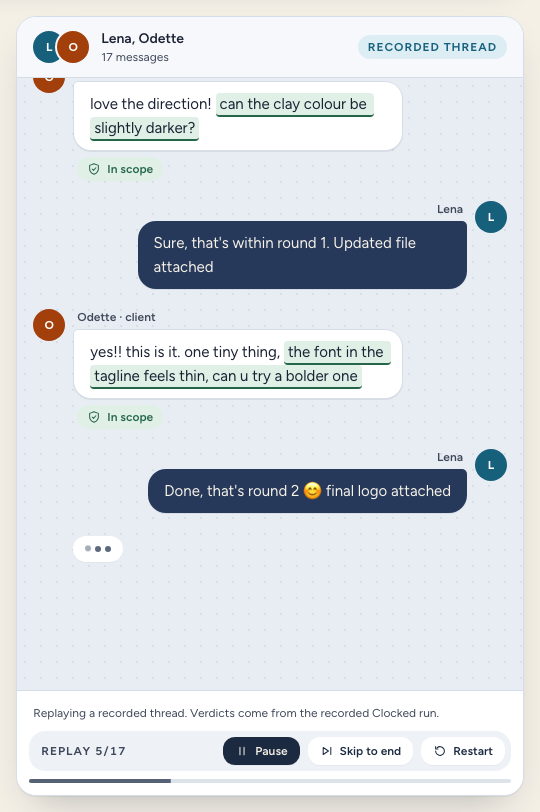
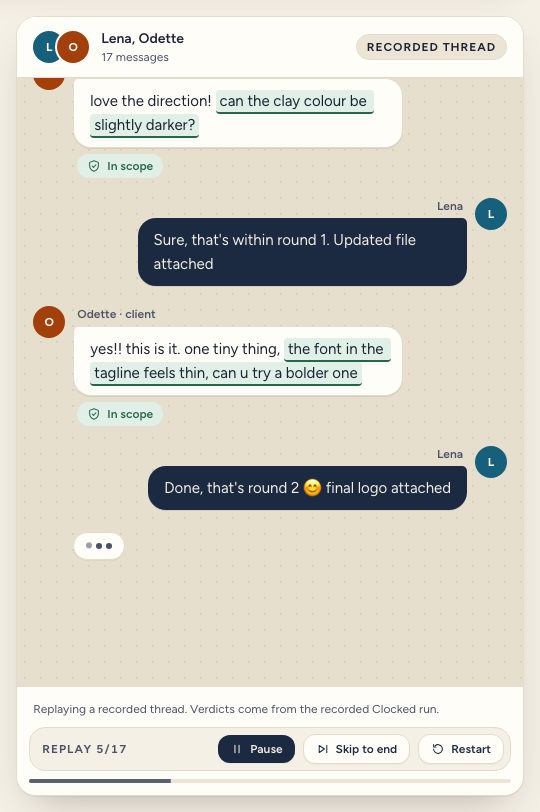
design: palette harmony pass: chat window and app-wide colours, shadows and tints from the token set; themed scrollbar; design notes

diff --git a/src/index.css b/src/index.css
@@ -29,8 +29,13 @@
   --color-warn: #7a4b00;
   --color-warn-bg: #fdf3d9;
 
-  --shadow-card: 0 1px 0 rgb(26 33 51 / 0.04), 0 10px 28px -16px rgb(26 33 51 / 0.22);
-  --shadow-lift: 0 1px 0 rgb(26 33 51 / 0.05), 0 18px 40px -18px rgb(26 33 51 / 0.32);
+  /* Derived neutrals (mixes of the tokens above, no new hues) */
+  --color-sand: color-mix(in srgb, var(--color-line) 72%, var(--color-paper-deep)); /* chat canvas: a touch deeper than the page paper */
+  --color-stone: color-mix(in srgb, var(--color-line) 70%, var(--color-muted)); /* warm grey for neutral strokes */
+  --color-shadow: color-mix(in srgb, var(--color-ink) 70%, var(--color-warn)); /* warm-tinted shadow base */
+
+  --shadow-card: 0 1px 0 color-mix(in srgb, var(--color-shadow) 5%, transparent), 0 10px 28px -16px color-mix(in srgb, var(--color-shadow) 26%, transparent);
+  --shadow-lift: 0 1px 0 color-mix(in srgb, var(--color-shadow) 6%, transparent), 0 18px 40px -18px color-mix(in srgb, var(--color-shadow) 36%, transparent);
   --radius-card: 16px;
 }
 
@@ -42,13 +47,13 @@ body {
   color: var(--color-ink);
   min-height: 100vh;
   background:
-    radial-gradient(900px 420px at 92% -8%, rgb(255 253 248 / 0.9) 0%, transparent 65%),
-    radial-gradient(700px 360px at -10% 8%, rgb(236 229 214 / 0.8) 0%, transparent 60%),
+    radial-gradient(900px 420px at 92% -8%, color-mix(in srgb, var(--color-card) 90%, transparent) 0%, transparent 65%),
+    radial-gradient(700px 360px at -10% 8%, color-mix(in srgb, var(--color-paper-deep) 80%, transparent) 0%, transparent 60%),
     var(--color-paper);
   font-feature-settings: "ss01", "cv11";
   -webkit-font-smoothing: antialiased;
 }
-::selection { background: rgb(27 42 65 / 0.18); }
+::selection { background: color-mix(in srgb, var(--color-navy) 18%, transparent); }
 
 /* Type scale: display 44/48, h2 28/36, h3 20/28, body 16/24, small 14/20, micro 12/16 */
 .font-display { font-family: var(--font-display); font-variation-settings: "opsz" 48, "SOFT" 30; letter-spacing: -0.01em; }
@@ -87,20 +92,33 @@ mark.sweep::after { content: ""; position: absolute; left: 0; right: 0; bottom: 
 .chip-in { transition: opacity .3s ease .25s, transform .15s ease; }
 .is-hidden .chip-in { opacity: 0; }
 
-/* Chat window (the Thread panel): its own cool surface, separate from the warm paper cards. Original and generic by design. */
-.chat-window { background: #f6f8fb; border: 1px solid #d5dde8; border-radius: 20px; box-shadow: var(--shadow-lift); }
-.chat-canvas { background-color: #e8edf3; background-image: radial-gradient(rgb(27 42 65 / .08) 1px, transparent 1.3px); background-size: 16px 16px; }
-.bubble { border-radius: 18px; box-shadow: 0 1px 0 rgb(26 33 51 / .08); }
-.bubble-left { background: #ffffff; color: var(--color-ink); border: 1px solid #d5dde8; }
-.bubble-right { background: #27395a; color: #f7f3ea; }
+/* Chat window (the Thread panel): same palette as the page. Distinct through depth, shape, structure and the sans font, not through a different hue. */
+.chat-window { background: var(--color-card); border: 1px solid var(--color-line); border-radius: 20px; box-shadow: var(--shadow-lift); }
+.chat-canvas { background-color: var(--color-sand); background-image: radial-gradient(color-mix(in srgb, var(--color-shadow) 9%, transparent) 1px, transparent 1.3px); background-size: 16px 16px; }
+.bubble { border-radius: 18px; box-shadow: 0 1px 0 color-mix(in srgb, var(--color-shadow) 10%, transparent); }
+.bubble-left { background: var(--color-card); color: var(--color-ink); border: 1px solid var(--color-line); }
+.bubble-right { background: var(--color-navy); color: var(--color-paper); }
 .tail-left { border-top-left-radius: 5px; }
 .tail-right { border-top-right-radius: 5px; }
 .bubble-pulse { animation: bubble-pulse .8s ease-out 1; }
 @keyframes bubble-pulse { 0% { transform: scale(1); } 35% { transform: scale(1.035); } 100% { transform: scale(1); } }
-.typing i { display: block; width: 6px; height: 6px; border-radius: 9999px; background: #5d6a7e; animation: typing-dot 1s ease-in-out infinite; }
+.typing i { display: block; width: 6px; height: 6px; border-radius: 9999px; background: var(--color-muted); animation: typing-dot 1s ease-in-out infinite; }
 .typing i:nth-child(2) { animation-delay: .15s; }
 .typing i:nth-child(3) { animation-delay: .3s; }
 @keyframes typing-dot { 0%, 60%, 100% { opacity: .35; transform: translateY(0); } 30% { opacity: 1; transform: translateY(-2px); } }
+
+/* Slim, themed scrollbar for the chat body: faint at rest, stronger on hover and focus. Firefox and current Chrome use scrollbar-color; older WebKit falls back to the pseudo-elements. */
+.chat-scroll { scrollbar-width: thin; scrollbar-color: color-mix(in srgb, var(--color-shadow) 26%, transparent) transparent; }
+.chat-scroll:hover, .chat-scroll:focus, .chat-scroll:focus-within { scrollbar-color: color-mix(in srgb, var(--color-shadow) 55%, transparent) transparent; }
+@supports not (scrollbar-color: auto) {
+  .chat-scroll::-webkit-scrollbar { width: 9px; }
+  .chat-scroll::-webkit-scrollbar-track { background: transparent; }
+  .chat-scroll::-webkit-scrollbar-thumb { background: color-mix(in srgb, var(--color-shadow) 26%, transparent); border-radius: 9999px; border: 2px solid transparent; background-clip: padding-box; }
+  .chat-scroll:hover::-webkit-scrollbar-thumb, .chat-scroll:focus::-webkit-scrollbar-thumb, .chat-scroll:focus-within::-webkit-scrollbar-thumb { background: color-mix(in srgb, var(--color-shadow) 55%, transparent); background-clip: padding-box; }
+}
+
+/* Inset field shadow (inputs) */
+.shadow-inset { box-shadow: inset 0 1px 2px color-mix(in srgb, var(--color-shadow) 9%, transparent); }
 
 /* Small physical responses: buttons lift on hover and press in */
 .press { transition: transform .15s ease, opacity .15s ease; }
@@ -143,7 +161,7 @@ button:hover > .undo-icon, button:focus-visible > .undo-icon { transform: rotate
 }
 
 /* Focus: always visible for keyboard users, with an offset ring that works on paper, cards and navy buttons */
-:focus-visible { outline: 2px solid var(--color-navy); outline-offset: 3px; border-radius: 6px; box-shadow: 0 0 0 5px rgb(245 240 230 / 0.9); }
+:focus-visible { outline: 2px solid var(--color-navy); outline-offset: 3px; border-radius: 6px; box-shadow: 0 0 0 5px color-mix(in srgb, var(--color-paper) 90%, transparent); }
 button, a, summary, input, textarea { -webkit-tap-highlight-color: transparent; }
 button:not(:disabled), summary { cursor: pointer; }
 button { touch-action: manipulation; }

diff --git a/src/components/ChangeOrderPanel.tsx b/src/components/ChangeOrderPanel.tsx
@@ -4,7 +4,7 @@ import { countVerdicts, verifyCopyState, type VerifiedClaim } from "../lib/verif
 import { CopyButton } from "./CopyButton";
 
 const Chip = () => (
-  <span className="t-eyebrow inline-flex items-center gap-1 rounded-full border border-ask/30 bg-ask-bg px-2.5 py-0.5 text-ask"><span aria-hidden>✦</span>AI-generated draft</span>
+  <span className="t-eyebrow inline-flex items-center gap-1 rounded-full border border-line bg-paper-deep px-2.5 py-0.5 text-ink"><span aria-hidden>✦</span>AI-generated draft</span>
 );
 
 interface Props {
@@ -45,8 +45,8 @@ export function ChangeOrderPanel({ item, open, setOpen, onPrepare, onRegenerate,
   const reason = invented ? "Blocked: the draft contains an amount that is not in the thread." : vs.blockedReason ?? (vs.needsAck ? "Click “I’ve read this” on the not-found note first." : undefined);
   const warn = (amounts: string[]) =>
     amounts.length > 0 && (
-      <div role="alert" className="mt-2.5 flex gap-2.5 rounded-xl border border-change/40 bg-change-bg px-3.5 py-3 text-xs leading-5 text-ink">
-        <span aria-hidden className="mt-0.5 flex h-5 w-5 shrink-0 items-center justify-center rounded-full bg-change text-xs font-bold text-white">✕</span><span><b className="text-change">Copy blocked.</b> This draft mentions {amounts.join(", ")}, which does not appear in the contract or thread, so it may be an invented price.{" "}
+      <div role="alert" className="mt-2.5 flex gap-2.5 rounded-xl border border-change/30 bg-change-bg px-3.5 py-3 text-xs leading-5 text-ink">
+        <span aria-hidden className="mt-0.5 flex h-5 w-5 shrink-0 items-center justify-center rounded-full bg-change text-xs font-bold text-card">✕</span><span><b className="text-change">Copy blocked.</b> This draft mentions {amounts.join(", ")}, which does not appear in the contract or thread, so it may be an invented price.{" "}
         {st.regenerated ? "The one Regenerate attempt is used. Write this part yourself." : (
           <button onClick={onRegenerate} className="ml-1 rounded-md bg-navy px-2.5 py-1 font-semibold text-paper">Regenerate once</button>
         )}</span>
@@ -86,7 +86,7 @@ export function ChangeOrderPanel({ item, open, setOpen, onPrepare, onRegenerate,
 
       <div>
         <div className="mb-2 flex flex-wrap items-center gap-2"><span className="t-eyebrow text-muted">Message to client</span><Chip /></div>
-        <p className="whitespace-pre-wrap rounded-xl border border-ask/25 bg-card px-4 py-3 text-[0.9375rem] leading-6">{co.message ?? "No message was generated."}</p>
+        <p className="whitespace-pre-wrap rounded-xl border border-line bg-card px-4 py-3 text-[0.9375rem] leading-6">{co.message ?? "No message was generated."}</p>
         {warn(co.inventedMessage)}
         <VerifyBlock item={item} onShowEvidence={onShowEvidence} onAck={onAck} onRetry={onRetryVerify} />
         {co.message && <div className="mt-3"><CopyButton text={co.message} label="Copy message" blockedReason={messageReason} /></div>}
@@ -94,7 +94,7 @@ export function ChangeOrderPanel({ item, open, setOpen, onPrepare, onRegenerate,
 
       <div>
         <div className="mb-2 flex flex-wrap items-center gap-2"><span className="t-eyebrow text-muted">Next step for you</span><Chip /></div>
-        <p className="rounded-xl border border-ask/25 bg-card px-4 py-3 text-[0.9375rem] leading-6">{co.nextStep ?? "No next step was generated."}</p>
+        <p className="rounded-xl border border-line bg-card px-4 py-3 text-[0.9375rem] leading-6">{co.nextStep ?? "No next step was generated."}</p>
         {warn(co.inventedNextStep)}
       </div>
 
@@ -144,8 +144,8 @@ function VerifyBlock({ item, onShowEvidence, onAck, onRetry }: { item: RequestIt
         <span className="text-muted">{n.supported} supported{n.notStated ? `, ${n.notStated} not found` : ""}{n.contradicted ? `, ${n.contradicted} contradicted` : ""}</span>
       </p>
       {claims.filter((c) => c.verdict === "contradicted").map((c) => (
-        <div key={idx(c)} role="alert" className="flex gap-2.5 rounded-xl border border-change/40 bg-change-bg px-3.5 py-3 text-xs leading-5 text-ink">
-          <span aria-hidden className="mt-0.5 flex h-5 w-5 shrink-0 items-center justify-center rounded-full bg-change text-xs font-bold text-white">✕</span>
+        <div key={idx(c)} role="alert" className="flex gap-2.5 rounded-xl border border-change/30 bg-change-bg px-3.5 py-3 text-xs leading-5 text-ink">
+          <span aria-hidden className="mt-0.5 flex h-5 w-5 shrink-0 items-center justify-center rounded-full bg-change text-xs font-bold text-card">✕</span>
           <div>
             <p><b className="text-change">Contradicted. Copy is blocked.</b> “{c.text}”</p>
             <ClaimEvidence claim={c} spanId={`${item.id}:v${idx(c)}`} onShow={onShowEvidence} />
@@ -154,8 +154,8 @@ function VerifyBlock({ item, onShowEvidence, onAck, onRetry }: { item: RequestIt
         </div>
       ))}
       {claims.filter((c) => c.verdict === "not_stated").map((c) => (
-        <div key={idx(c)} className="flex gap-2.5 rounded-xl border border-warn/40 bg-warn-bg px-3.5 py-3 text-xs leading-5 text-ink">
-          <span aria-hidden className="mt-0.5 flex h-5 w-5 shrink-0 items-center justify-center rounded-full bg-warn text-xs font-bold text-white">!</span>
+        <div key={idx(c)} className="flex gap-2.5 rounded-xl border border-warn/30 bg-warn-bg px-3.5 py-3 text-xs leading-5 text-ink">
+          <span aria-hidden className="mt-0.5 flex h-5 w-5 shrink-0 items-center justify-center rounded-full bg-warn text-xs font-bold text-card">!</span>
           <div>
             <p><b className="text-warn">Not found in the thread.</b> “{c.text}”</p>
             <ClaimEvidence claim={c} spanId={`${item.id}:v${idx(c)}`} onShow={onShowEvidence} />

diff --git a/src/components/ChatWindow.tsx b/src/components/ChatWindow.tsx
@@ -55,39 +55,39 @@ export const ChatWindow = forwardRef<ChatHandle, Props>(function ChatWindow({ an
 
   return (
     <section id="chat-window" aria-label="Chat window: the thread" className="chat-window scroll-mt-20 flex h-[calc(100dvh-9.5rem)] min-h-[28rem] flex-col overflow-hidden lg:h-[calc(100vh-7rem)] lg:max-h-[780px]">
-      <header className="flex items-center gap-3 border-b border-[#d5dde8] bg-[#f6f8fb] px-4 py-3">
+      <header className="flex items-center gap-3 border-b border-line bg-card px-4 py-3">
         <div className="flex -space-x-2" aria-hidden="true">
           {people.slice(0, 4).map((p) => (
-            <span key={p.name} className="flex h-8 w-8 items-center justify-center rounded-full text-xs font-bold text-white ring-2 ring-[#f6f8fb]" style={{ background: avatarColor(people, p.name) }}>{initials(p.name)}</span>
+            <span key={p.name} className="flex h-8 w-8 items-center justify-center rounded-full text-xs font-bold text-card ring-2 ring-card" style={{ background: avatarColor(people, p.name) }}>{initials(p.name)}</span>
           ))}
         </div>
         <div className="min-w-0">
           <h3 className="truncate text-sm font-semibold text-ink">{names || "Thread"}</h3>
-          <p className="text-xs text-[#3f4859]">{analysis.messages.length} messages</p>
+          <p className="text-xs text-muted">{analysis.messages.length} messages</p>
         </div>
-        <span className={`t-eyebrow ml-auto shrink-0 rounded-full px-2.5 py-1 ${recorded ? "bg-agreed-bg text-agreed" : "bg-paper-deep text-ink"}`}>{recorded ? "Recorded thread" : "Your thread"}</span>
+        <span className={`t-eyebrow ml-auto shrink-0 rounded-full px-2.5 py-1 border border-line bg-paper-deep text-ink`}>{recorded ? "Recorded thread" : "Your thread"}</span>
       </header>
 
       <div ref={body} role="log" aria-label="Chat thread" aria-live="polite" aria-relevant="additions" tabIndex={0}
         onWheel={() => (userScrolled.current = true)} onTouchMove={() => (userScrolled.current = true)}
         onKeyDown={(e) => { if (["ArrowUp", "ArrowDown", "PageUp", "PageDown", "Home", "End"].includes(e.key)) userScrolled.current = true; }}
-        className="chat-canvas relative min-h-0 flex-1 overflow-y-auto overscroll-contain">
+        className="chat-canvas chat-scroll relative min-h-0 flex-1 overflow-y-auto overscroll-contain">
         <ThreadView analysis={analysis} openIds={openIds} activeId={activeId} onPick={onPick} onRetryMessage={onRetryMessage}
           revealed={recorded ? replay.revealed : undefined} typingIndex={recorded ? replay.typing : null} />
       </div>
 
       {recorded && (
-        <footer className="border-t border-[#d5dde8] bg-white px-3 py-3">
-          <p className="mb-2 px-1 text-xs leading-5 text-[#3f4859]">Replaying a recorded thread. Verdicts come from the recorded Clocked run.</p>
-          <div role="group" aria-label="Replay controls" className="flex flex-wrap items-center gap-2 rounded-2xl bg-[#eef2f7] p-1.5 pl-3">
-            <span className="t-eyebrow tnum mr-auto text-[#3f4859]">Replay {replay.revealed}/{replay.total}</span>
+        <footer className="border-t border-line bg-card px-3 py-3">
+          <p className="mb-2 px-1 text-xs leading-5 text-muted">Replaying a recorded thread. Verdicts come from the recorded Clocked run.</p>
+          <div role="group" aria-label="Replay controls" className="flex flex-wrap items-center gap-2 rounded-2xl border border-line bg-paper p-1.5 pl-3">
+            <span className="t-eyebrow tnum mr-auto text-muted">Replay {replay.revealed}/{replay.total}</span>
             <button onClick={() => { userScrolled.current = false; (replay.playing ? replay.pause : replay.play)(); }} className={`${ctl} bg-navy text-paper hover:bg-navy/90`}>
               {replay.playing ? <PauseIcon width={14} height={14} /> : <PlayIcon width={14} height={14} />}{replay.playing ? "Pause" : replay.revealed >= replay.total ? "Replay" : "Play"}
             </button>
-            <button onClick={replay.finish} disabled={replay.revealed >= replay.total} className={`${ctl} bg-white text-navy hover:bg-paper disabled:opacity-50`}><SkipEndIcon width={14} height={14} />Skip to end</button>
-            <button onClick={() => { userScrolled.current = false; replay.restart(); }} className={`${ctl} bg-white text-navy hover:bg-paper`}><RestartIcon width={14} height={14} />Restart</button>
+            <button onClick={replay.finish} disabled={replay.revealed >= replay.total} className={`${ctl} border border-line bg-card text-navy hover:bg-paper-deep disabled:opacity-50`}><SkipEndIcon width={14} height={14} />Skip to end</button>
+            <button onClick={() => { userScrolled.current = false; replay.restart(); }} className={`${ctl} border border-line bg-card text-navy hover:bg-paper-deep`}><RestartIcon width={14} height={14} />Restart</button>
           </div>
-          <div className="mt-2 h-1 overflow-hidden rounded-full bg-[#dde3ea]" aria-hidden="true">
+          <div className="mt-2 h-1 overflow-hidden rounded-full bg-paper-deep" aria-hidden="true">
             <div className="h-full origin-left bg-navy/70 transition-transform duration-300" style={{ transform: `scaleX(${pct})` }} />
           </div>
           <p className="sr-only" aria-live="polite" aria-atomic="true" data-testid="replay-live">{replay.live}</p>

diff --git a/src/components/ThreadView.tsx b/src/components/ThreadView.tsx
@@ -55,16 +55,16 @@ export function ThreadView({ analysis, openIds, activeId, onPick, onRetryMessage
             {typing && (
               <div aria-hidden="true" className={`typing absolute top-0 ${right ? "right-0 flex-row-reverse" : "left-0"} flex items-center gap-2`}>
                 <span className="h-8 w-8 shrink-0" />
-                <span className="flex items-center gap-1 rounded-2xl bg-white px-3 py-2.5 shadow-card"><i /><i /><i /></span>
+                <span className="flex items-center gap-1 rounded-2xl border border-line bg-card px-3 py-2.5 shadow-card"><i /><i /><i /></span>
               </div>
             )}
             <div aria-hidden={hidden ? true : undefined} inert={hidden ? true : undefined}
               className={`replay-item flex max-w-[84%] items-end gap-2 sm:max-w-[78%] ${right ? "flex-row-reverse" : ""} ${hidden ? "is-hidden" : ""}`}>
               {pl.firstInGroup ? (
-                <span aria-hidden="true" title={m.speaker} className="mb-auto flex h-8 w-8 shrink-0 items-center justify-center rounded-full text-xs font-bold text-white" style={{ background: color }}>{initials(m.speaker)}</span>
+                <span aria-hidden="true" title={m.speaker} className="mb-auto flex h-8 w-8 shrink-0 items-center justify-center rounded-full text-xs font-bold text-card" style={{ background: color }}>{initials(m.speaker)}</span>
               ) : <span className="h-8 w-8 shrink-0" />}
               <div className={`min-w-0 ${right ? "items-end text-right" : "items-start"} flex flex-col`}>
-                {pl.firstInGroup && <span className="mb-1 px-1 text-xs font-semibold text-[#3f4859]">{m.speaker}{m.isClient ? " · client" : ""}</span>}
+                {pl.firstInGroup && <span className="mb-1 px-1 text-xs font-semibold text-muted">{m.speaker}{m.isClient ? " · client" : ""}</span>}
                 <p data-bubble className={`bubble whitespace-pre-wrap break-words px-4 py-2.5 text-left font-sans text-[0.9375rem] leading-6 ${right ? "bubble-right" : "bubble-left"} ${pl.firstInGroup ? (right ? "tail-right" : "tail-left") : ""} ${pulse ? "bubble-pulse" : ""}`}>
                   {segs.map((seg, k) => {
                     if (!seg.id) return <span key={k}>{seg.text}</span>;
@@ -95,8 +95,8 @@ export function ThreadView({ analysis, openIds, activeId, onPick, onRetryMessage
                         </button>
                       );
                     })}
-                    {st?.status === "done" && st.requestCount === 0 && <span className="rounded-full bg-[#dde3ea] px-2.5 py-1 text-xs font-medium text-[#3f4859]">No actionable request</span>}
-                    {st?.status === "running" && <span className="flex items-center gap-1.5 rounded-full bg-[#dde3ea] px-2.5 py-1 text-xs text-[#3f4859]" role="status"><span className="spinner" /> Reading</span>}
+                    {st?.status === "done" && st.requestCount === 0 && <span className="rounded-full border border-line bg-paper px-2.5 py-1 text-xs font-medium text-muted">No actionable request</span>}
+                    {st?.status === "running" && <span className="flex items-center gap-1.5 rounded-full border border-line bg-paper px-2.5 py-1 text-xs text-muted" role="status"><span className="spinner" /> Reading</span>}
                     {st?.status === "failed" && (
                       <span className="flex items-center gap-2 rounded-full bg-change-bg px-2.5 py-1 text-xs text-change" role="alert">
                         <span title={describeError(st.errorKind, st.error).hint}>{describeError(st.errorKind, st.error).title}</span>

diff --git a/scripts/og.html b/scripts/og.html
@@ -6,10 +6,10 @@ body{background:#f5f0e6;font-family:"Figtree Variable",sans-serif;color:#1a2133;
  background-image:radial-gradient(700px 360px at 95% -10%,#fffdf8 0%,transparent 65%),radial-gradient(600px 300px at -5% 10%,#ece5d6 0%,transparent 60%)}
 .brand{position:absolute;left:84px;top:64px;display:flex;align-items:center;gap:18px;font-family:"Fraunces Variable",serif;font-size:34px;font-variation-settings:"opsz" 48}
 h1{position:absolute;left:84px;top:170px;width:900px;margin:0;font-family:"Fraunces Variable",serif;font-weight:560;font-size:92px;line-height:1.04;letter-spacing:-2.5px;font-variation-settings:"opsz" 96}
-p.t{position:absolute;left:86px;top:400px;width:860px;margin:0;font-size:31px;line-height:1.38;color:#3a4256}
+p.t{position:absolute;left:86px;top:400px;width:860px;margin:0;font-size:31px;line-height:1.38;color:#4a5266}
 .chips{position:absolute;left:84px;bottom:52px;display:flex;gap:14px;font-size:22px;font-weight:650}
 .c{padding:10px 20px;border-radius:12px;border-left:5px solid}
-.p{position:absolute;right:84px;top:78px;font-size:15px;letter-spacing:.12em;text-transform:uppercase;font-weight:650;color:#586073}
+.p{position:absolute;right:84px;top:78px;font-size:15px;letter-spacing:.12em;text-transform:uppercase;font-weight:650;color:#4a5266}
 </style>
 <div class="brand"><svg width="44" height="47" viewBox="0 0 26 28"><path d="M13 1.5 2.5 5v8.2c0 6.2 4.3 10.9 10.5 13.3 6.2-2.4 10.5-7.1 10.5-13.3V5L13 1.5Z" fill="#1b2a41"/><path d="m8.2 13.8 3.6 3.6 6.2-7" fill="none" stroke="#f5f0e6" stroke-width="2.2" stroke-linecap="round" stroke-linejoin="round"/></svg>ScopeShield</div>
 <h1>Catch scope creep before it becomes unpaid work.</h1>

diff --git a/src/App.tsx b/src/App.tsx
@@ -15,8 +15,8 @@ interface DemoIndexEntry { id: string; title: string; blurb: string; recordedAt:
 
 const Shield = () => (
   <svg width="30" height="32" viewBox="0 0 26 28" aria-hidden>
-    <path d="M13 1.5 2.5 5v8.2c0 6.2 4.3 10.9 10.5 13.3 6.2-2.4 10.5-7.1 10.5-13.3V5L13 1.5Z" fill="#1b2a41" />
-    <path d="m8.2 13.8 3.6 3.6 6.2-7" fill="none" stroke="#f4efe4" strokeWidth="2.2" strokeLinecap="round" strokeLinejoin="round" />
+    <path d="M13 1.5 2.5 5v8.2c0 6.2 4.3 10.9 10.5 13.3 6.2-2.4 10.5-7.1 10.5-13.3V5L13 1.5Z" style={{ fill: "var(--color-navy)" }} />
+    <path d="m8.2 13.8 3.6 3.6 6.2-7" fill="none" style={{ stroke: "var(--color-paper)" }} strokeWidth="2.2" strokeLinecap="round" strokeLinejoin="round" />
   </svg>
 );
 
@@ -176,8 +176,8 @@ export default function App() {
               ))}
             </div>
             <p className="min-h-6 max-w-2xl text-[0.9375rem] text-ink/80">{demoIndex?.find((d) => d.id === demoId)?.blurb}</p>
-            <div className="flex gap-3 rounded-xl border border-agreed/25 bg-agreed-bg/70 px-4 py-3 text-sm text-ink">
-              <span aria-hidden className="mt-0.5 text-agreed">●</span>
+            <div className="flex gap-3 rounded-xl border border-line bg-paper-deep px-4 py-3 text-sm text-ink">
+              <span aria-hidden className="mt-0.5 text-navy">●</span>
               <p>
                 {/* The text has the same length before and after the data loads (invisible placeholders), so nothing shifts. */}
                 <b>Recorded from a live Clocked run on <span className={snap ? "" : "invisible"}>{snap?.recordedAt ?? "2026-11-07"}</span>.</b>{" "}

diff --git a/src/components/RequestCard.tsx b/src/components/RequestCard.tsx
@@ -78,7 +78,7 @@ export const RequestCard = forwardRef<HTMLElement, Props>(function RequestCard({
 
       {/* ASK ME: one concrete question, three answers */}
       {item.route?.queue === "ask_me" && item.route.ask && (
-        <div className="mt-5 rounded-2xl border border-ask/25 bg-ask-bg/60 p-4 sm:p-5">
+        <div className="mt-5 rounded-2xl border border-ask/25 bg-ask-bg p-4 sm:p-5">
           {needsAnswer ? (
             <>
               <p className="t-eyebrow text-ask">One question for you</p>
@@ -108,7 +108,7 @@ export const RequestCard = forwardRef<HTMLElement, Props>(function RequestCard({
 
       {/* AGREED EXTRA / WITHDRAWN: the sentence that supports the verdict */}
       {item.support && (
-        <div className={`mt-5 rounded-xl border-l-4 px-4 py-3 text-sm ${item.support.kind === "agreement" ? "border-agreed bg-agreed-bg/70" : "border-withdrawn bg-withdrawn-bg/80"}`}>
+        <div className={`mt-5 rounded-xl border-l-4 px-4 py-3 text-sm ${item.support.kind === "agreement" ? "border-agreed bg-agreed-bg" : "border-withdrawn bg-withdrawn-bg"}`}>
           <p className="t-eyebrow text-muted">{item.support.kind === "agreement" ? "Agreement found" : "Withdrawal found"}</p>
           {item.support.status === "running" && <p role="status" className="mt-1 flex items-center gap-2 text-muted"><span className="spinner" /> Locating the sentence…</p>}
           {item.support.status === "failed" && (

diff --git a/src/components/InputPanel.tsx b/src/components/InputPanel.tsx
@@ -6,7 +6,7 @@ import { SAMPLES } from "../lib/samples";
 export interface Inputs { contract: string; thread: string; clientName: string }
 interface Props { value: Inputs; onChange: (v: Inputs) => void; onAnalyze: () => void; busy: boolean }
 
-const field = "w-full rounded-xl border border-line bg-card px-4 py-3 text-[0.9375rem] leading-6 shadow-[inset_0_1px_2px_rgb(26_33_51/0.05)] placeholder:text-muted/80 focus:border-navy";
+const field = "w-full rounded-xl border border-line bg-card px-4 py-3 text-[0.9375rem] leading-6 shadow-inset placeholder:text-muted/80 focus:border-navy";
 
 export function InputPanel({ value, onChange, onAnalyze, busy }: Props) {
   const check = useMemo(() => checkInputs(value.contract, value.thread, value.clientName), [value]);
@@ -70,7 +70,7 @@ export function InputPanel({ value, onChange, onAnalyze, busy }: Props) {
           {check.problems.map((p) => <li key={p}>{p}</li>)}
         </ul>
       )}
-      <p className="rounded-lg bg-paper-deep/60 px-4 py-3 text-xs leading-5 text-muted">
+      <p className="rounded-lg bg-paper-deep px-4 py-3 text-xs leading-5 text-muted">
         Live analysis spends Clocked credits (about 3–4 per client message plus about 2 per request found). Your text is sent to the Clocked API through this app’s server and is not stored by the app.
       </p>
     </form>

diff --git a/src/components/HeroFlow.tsx b/src/components/HeroFlow.tsx
@@ -34,7 +34,7 @@ export function HeroFlow() {
       ))}
 
       {/* the thread the messages come from (stays put, faint) */}
-      {WIDTHS.map((w, n) => <rect key={n} x={START_X} y={ROW(n) - 6} width={w} height={12} rx={6} fill="#e4dccb" />)}
+      {WIDTHS.map((w, n) => <rect key={n} x={START_X} y={ROW(n) - 6} width={w} height={12} rx={6} fill="var(--color-line)" />)}
 
       {/* messages: neutral line that turns into its queue's colour after the shield */}
       {TARGET.map((q, n) => {
@@ -48,7 +48,7 @@ export function HeroFlow() {
         } as CSSProperties;
         return (
           <g key={n} className="flow-item" style={style}>
-            <rect className="flow-neutral" x={START_X} y={ROW(n) - 6} width={w} height={12} rx={6} fill="#cfc6af" />
+            <rect className="flow-neutral" x={START_X} y={ROW(n) - 6} width={w} height={12} rx={6} fill="var(--color-stone)" />
             <rect className="flow-tint" x={START_X} y={ROW(n) - 6} width={w} height={12} rx={6} fill={COLORS[q].fg} />
           </g>
         );

diff --git a/src/components/ErrorBanner.tsx b/src/components/ErrorBanner.tsx
@@ -4,7 +4,7 @@ import type { Described } from "../lib/errors";
 export function ErrorBanner({ described, failures, onSwitchDemo }: { described: Described; failures: number; onSwitchDemo?: () => void }) {
   return (
     <div role="alert" className="mt-6 flex gap-3 rounded-xl border border-change/30 bg-change-bg px-4 py-3.5 text-sm text-ink">
-      <span aria-hidden className="mt-0.5 flex h-5 w-5 shrink-0 items-center justify-center rounded-full bg-change text-xs font-bold text-white">!</span>
+      <span aria-hidden className="mt-0.5 flex h-5 w-5 shrink-0 items-center justify-center rounded-full bg-change text-xs font-bold text-card">!</span>
       <div className="space-y-1">
         <p><b className="text-change">{described.title}</b> {described.hint}</p>
         {failures > 0 && <p className="text-muted">{failures} step{failures === 1 ? "" : "s"} failed. Everything else is kept, and each failed item has its own Retry.</p>}

diff --git a/src/components/Results.tsx b/src/components/Results.tsx
@@ -150,7 +150,7 @@ export function Results({ analysis, running, onRetryItem, onRetryMessage, onDeci
             </div>
           )}
           {askHint && finished && !groups.get("ask_me")?.length && (
-            <div className="flex flex-wrap items-center justify-between gap-3 rounded-2xl border border-ask/30 bg-ask-bg/50 px-5 py-4">
+            <div className="flex flex-wrap items-center justify-between gap-3 rounded-2xl border border-ask/30 bg-ask-bg px-5 py-4">
               <p className="text-sm text-ink/85"><b>No Ask me items in this thread.</b> That is where the app asks you one question when it is unsure.</p>
               <button onClick={askHint.onOpen} className="rounded-xl border border-ask/50 bg-card px-4 py-2 text-sm font-semibold text-ask shadow-card press hover:border-ask hover:shadow-lift">
                 See an Ask me example in the Brand identity sample →

diff --git a/src/lib/chat.ts b/src/lib/chat.ts
@@ -19,8 +19,8 @@ export function initials(name: string): string {
   return (first + last).toLocaleUpperCase();
 }
 
-// Avatar fills, each with >= 4.5:1 contrast against white text.
-export const AVATAR_COLORS = ["#17607c", "#a23f0b", "#5a3fa5", "#25664a", "#2f4b8a", "#5b5e66"] as const;
+// Avatar fills are design tokens (no extra hues), each with >= 4.5:1 contrast against the cream initials.
+export const AVATAR_COLORS = ["var(--color-agreed)", "var(--color-change)", "var(--color-ask)", "var(--color-scope)", "var(--color-navy)", "var(--color-withdrawn)"] as const;
 
 /** Colour by order of first appearance, so two participants never share a colour (up to six). */
 export const avatarColor = (people: { name: string }[], name: string): string => {
